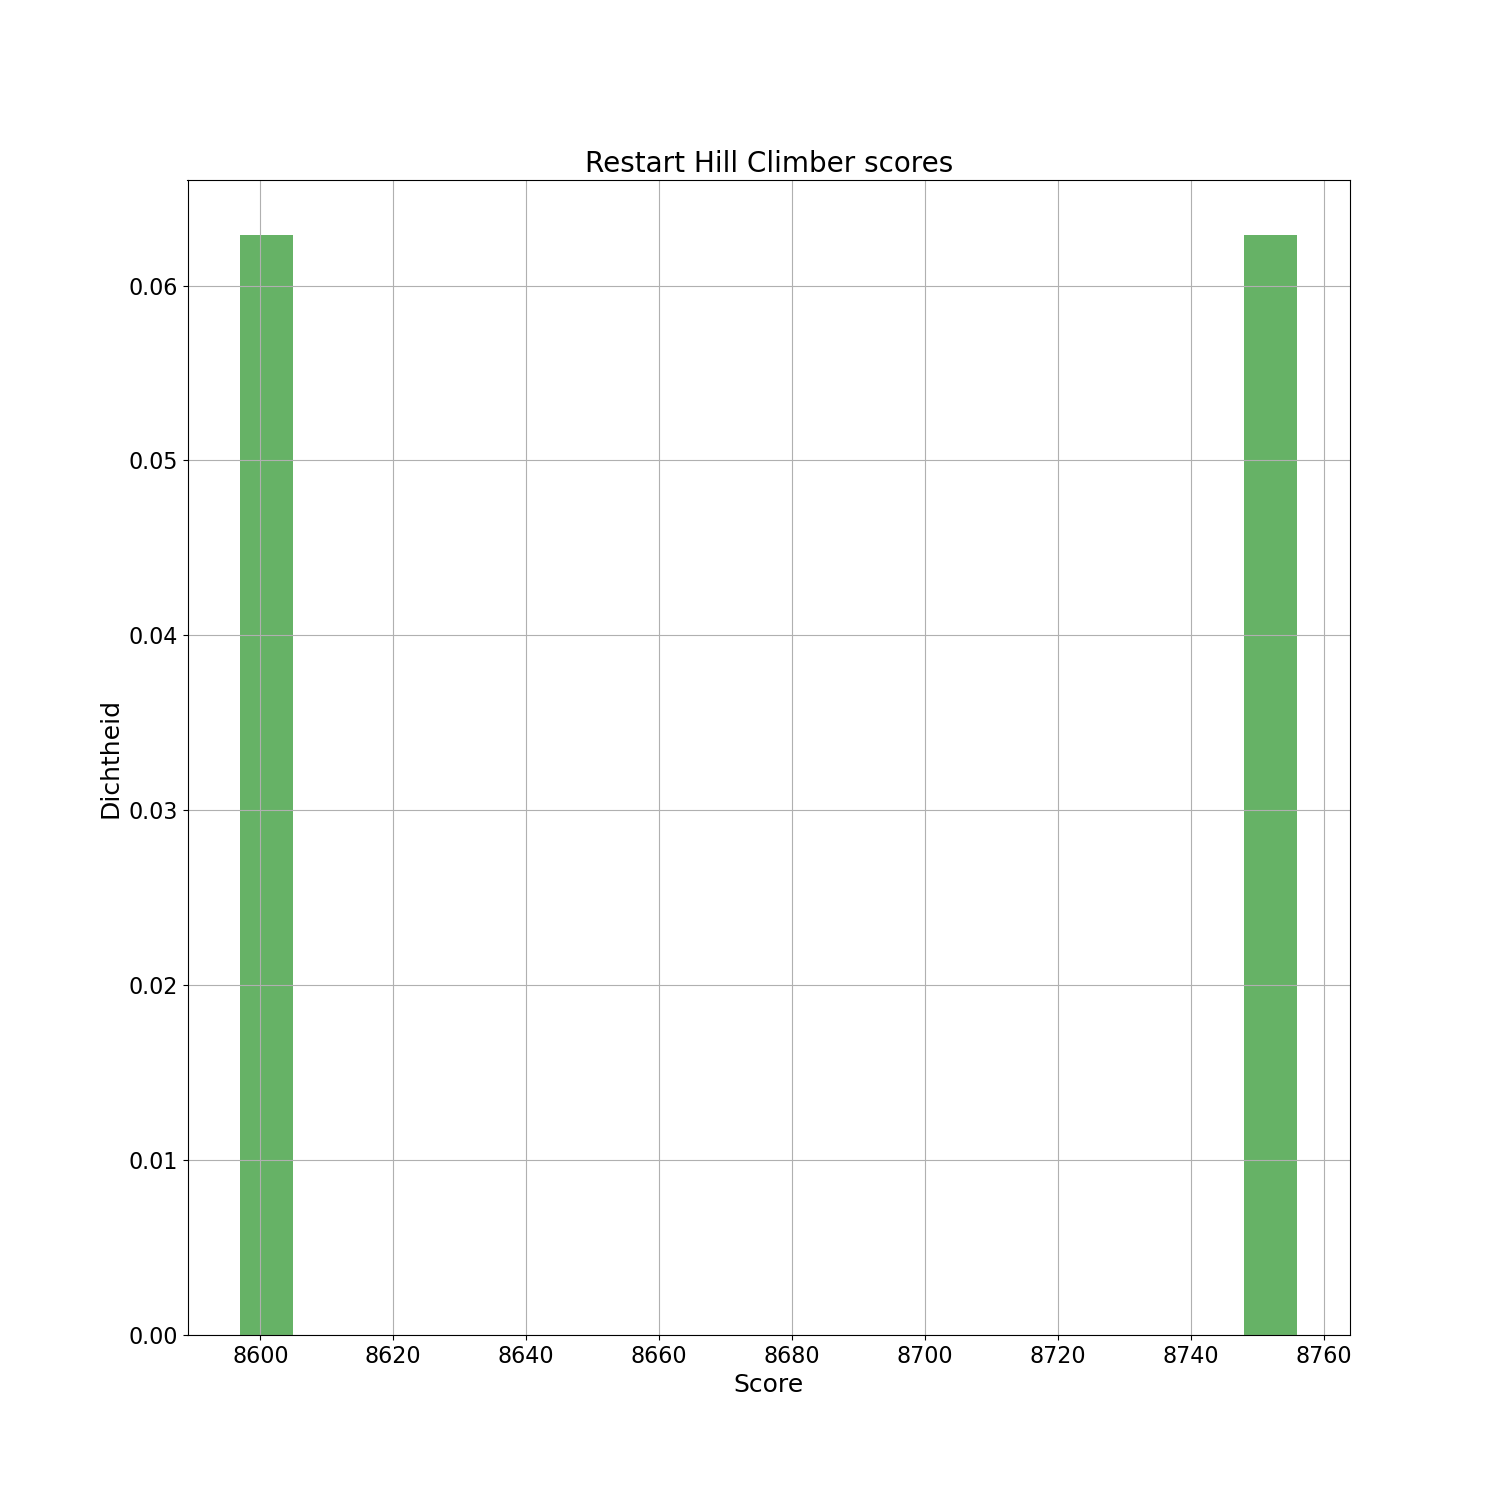
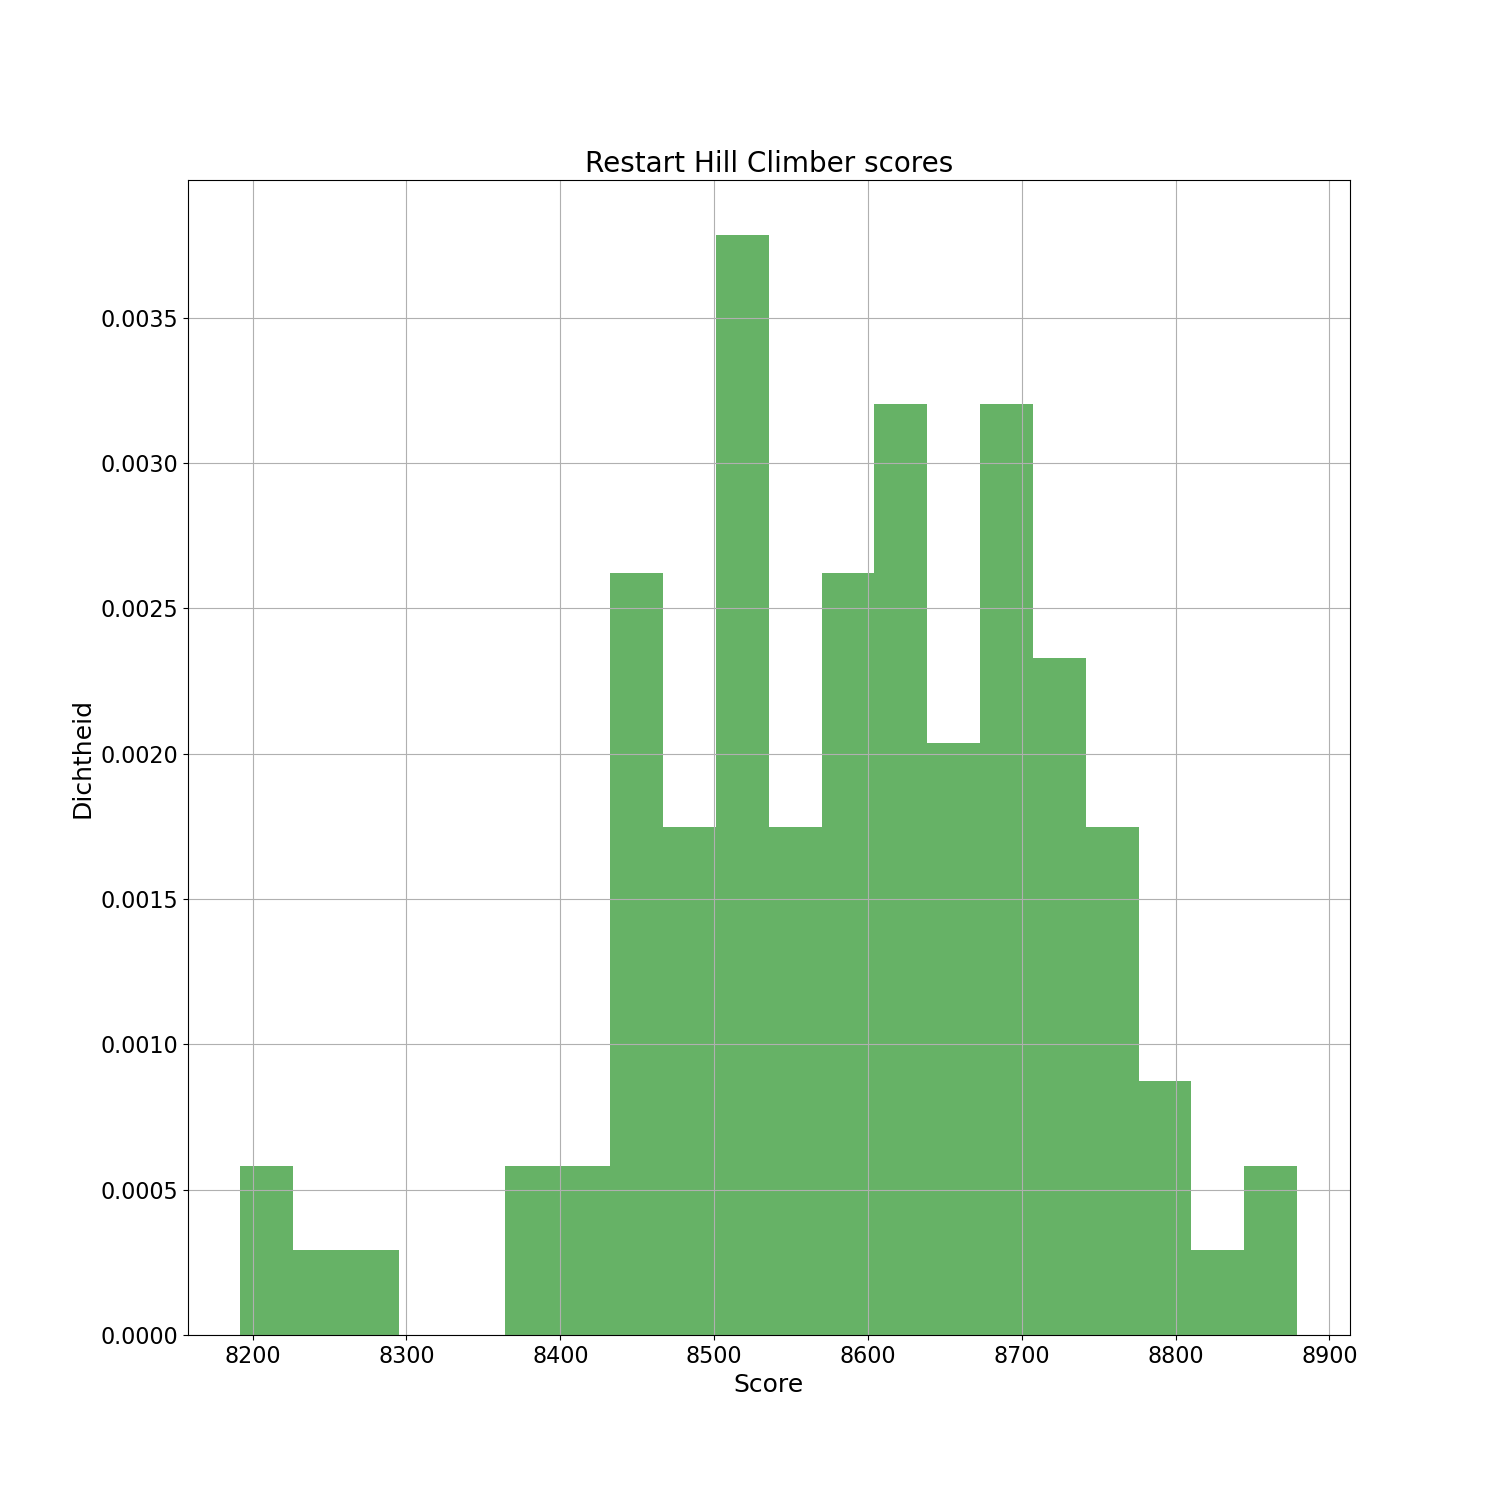
resultaten testje

diff --git a/main.py b/main.py
@@ -201,7 +201,7 @@ if __name__ == "__main__":
         # --------------------------- Hill Climber ---------------------------------
         number_random_startstate = 100
         hillclimber_iteration = 400
-        hillclimber_restart_iteration= 2
+        hillclimber_restart_iteration= 100
         stations_file = 'StationsHolland.csv'
         connecties_file = 'ConnectiesHolland.csv'
     
@@ -216,7 +216,6 @@ if __name__ == "__main__":
         # Hillclimber compinatie van mutaties testen
         climber =  HillClimber(random_chosen_solution, stations_file, connecties_file)
         combination_name, function_combinations = make_compinations(climber)
-        print(combination_name)
         
         # beste compinatie opslaan en plotten
         best_score, best_trajectories, scores_after_iteration, best_combination, combination = test_combination(

diff --git a/code/algoritmes/hillClimber.py b/code/algoritmes/hillClimber.py
@@ -177,7 +177,7 @@ def restart_hillclimber(iterations_hillclimber, mutation_iteration, stations_fil
         result =climber.run(combination, mutation_iteration)
         hillclimber_results.append(result)
         scores_iteration_hillclimber.append(result[2])
-        print("restart Hill Climber score: ", result[2])
+        print("restart Hill Climber run: ", i, "score: ",result[2])
         
 
     return [hillclimber_results, scores_iteration_hillclimber]
